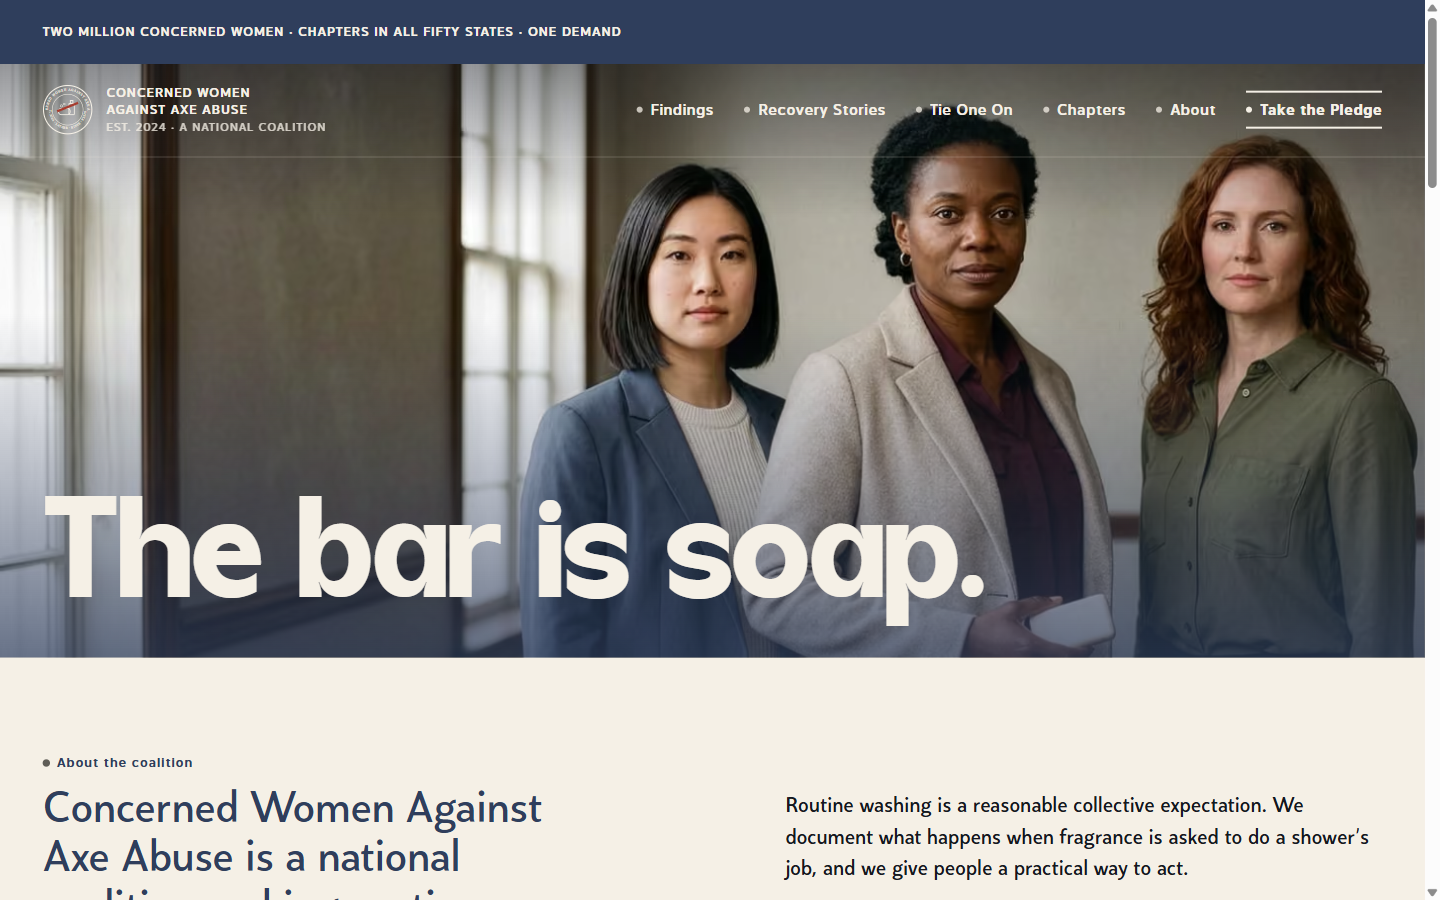
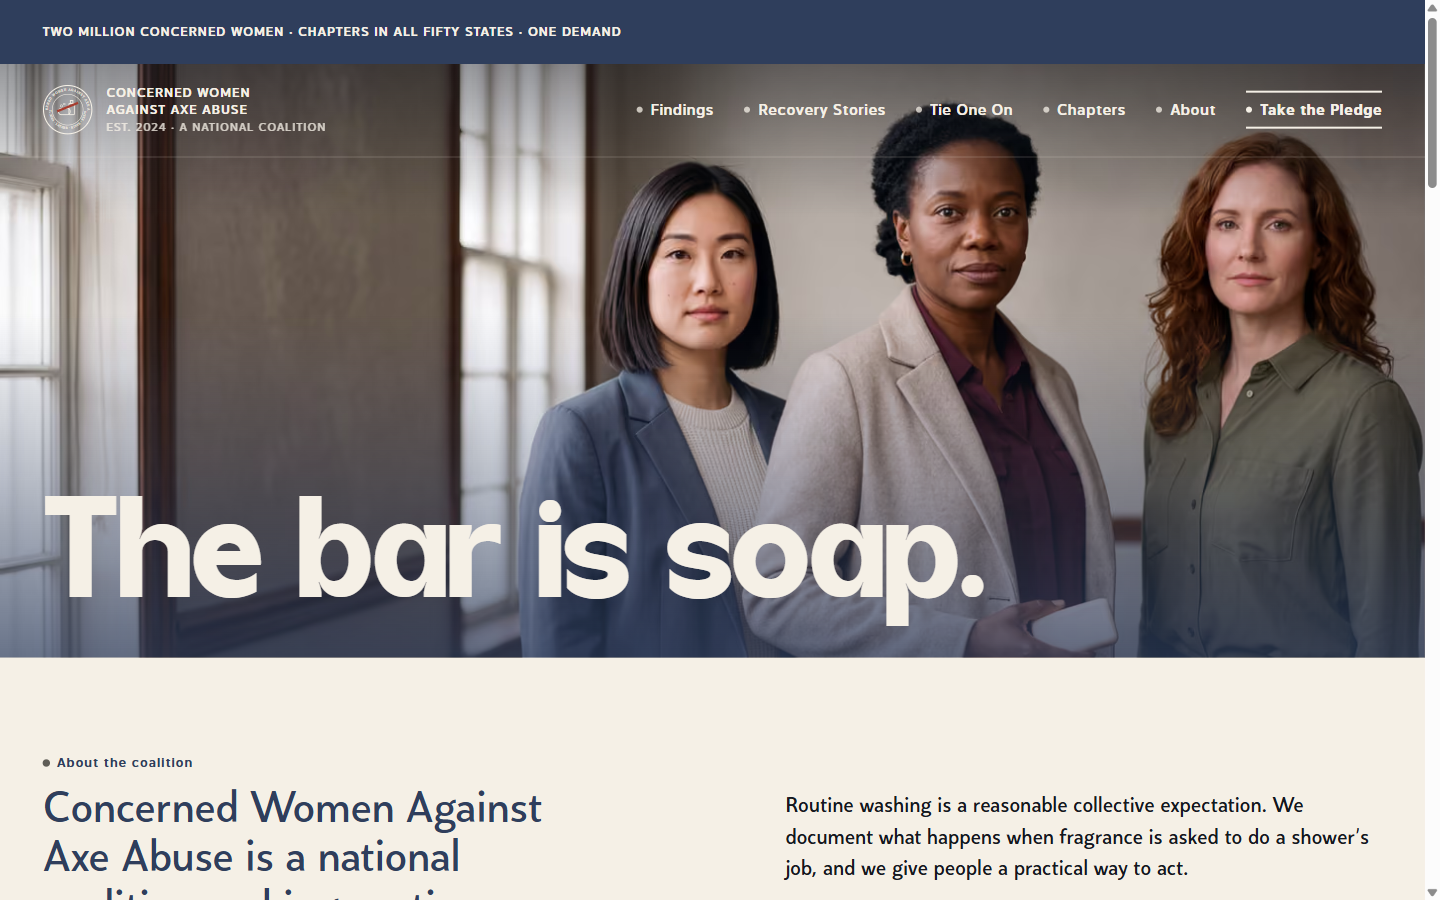
feat(cwaaa): art-directed hero masters; lock the Findings figure scale
- CW-G02: 3200×1800 desktop master and 4:5 phone composition supplied by
  the owner 2026-09-15. ImageSlot serves them as an art-directed <picture>
  (tall source below 700px, wide above), AVIF and WebP derivatives via
  astro:assets; the single-source cover crop and its JPG are retired.
- Home Finding record row fits four cells on one line.
- CW-D01 (Findings figure only): monumental figure scale locked as built;
  recorded in ui-system.md.
- Review captures: hero at both viewports; home Finding support options
  A and B for the owner's choice.

Verified: cwaaa build + astro check clean, detector empty; site build,
audit:fonts, gates, copy-gates, fidelity, distinguish, authority pass.

diff --git a/cwaaa/src/styles/tokens.css b/cwaaa/src/styles/tokens.css
@@ -46,7 +46,7 @@
   --cw-panel-h: clamp(1.375rem, 1.1rem + 0.8vw, 1.625rem);     /* 22–26 panel heading */
   --cw-testimony: clamp(1.5rem, 1.2rem + 0.9vw, 1.875rem);     /* 24–30 testimony */
   --cw-finding: clamp(2.75rem, 1rem + 5.8vw, 5.6rem);          /* Finding statement */
-  --cw-figure: min(clamp(9rem, 2rem + 30vw, 30rem), 60vh);     /* [PROPOSED] the one monumental Mirk Slab figure on /findings */
+  --cw-figure: min(clamp(9rem, 2rem + 30vw, 30rem), 60vh);     /* LOCKED 2026-09-15 (CW-D01, Findings figure): the one monumental Mirk Slab figure */
   --cw-figure-m: 44vw;                                         /* phone */
   --cw-line: clamp(2.25rem, 0.6rem + 4.9vw, 4.75rem);          /* DOCUMENT. ADVOCATE. ORGANIZE. */
   --cw-proposition: clamp(4.5rem, 2rem + 8vw, 9rem);           /* The bar is soap. */

diff --git a/cwaaa/src/content/copy.ts b/cwaaa/src/content/copy.ts
@@ -165,7 +165,7 @@ export const home = {
   placeholders: {
     hero: {
       id: 'CW-G02',
-      /** Owner-supplied photograph, 2026-09-15 (src/assets/hero-coalition.jpg). */
+      /** Owner-supplied photographs, 2026-09-15 (src/assets/hero-coalition-{wide,tall}.png). */
       alt: 'Three members of the coalition standing in a plain meeting room, facing the camera. One holds a bar of soap.',
       title: 'Documentary hero · full bleed · placeholder',
       spec:

diff --git a/cwaaa/docs/ui-system.md b/cwaaa/docs/ui-system.md
@@ -609,3 +609,16 @@ directed that it ship. Recorded:
   source is cover-cropped with an authored focal point on both viewports.
 - **Delivery:** AVIF and WebP derivatives via `astro:assets`, eager and high-priority on the home;
   the original JPG is not shipped.
+
+## 2026-09-15 — Hero masters delivered; Findings figure scale locked
+
+- **CW-G02 masters:** the owner supplied the 3200×1800 desktop master
+  (`src/assets/hero-coalition-wide.png`) and a 4:5 phone composition
+  (`src/assets/hero-coalition-tall.png`, 3712×4608). `ImageSlot` now serves them as an
+  art-directed `<picture>`: the tall source below 700px, the wide source above, each as AVIF and
+  WebP derivatives. The earlier single-source cover crop is retired; the "still owed" note above
+  is closed.
+- **CW-D01 (Findings figure only):** the monumental figure scale
+  `min(clamp(9rem, 2rem + 30vw, 30rem), 60vh)`, line-height 0.72, tracking −0.035em, phone 44vw,
+  is locked as built on the owner's instruction (2026-09-15, "use your best judgement"). The
+  remaining CW-D01 scale, leading, and measure values stay proposed.
